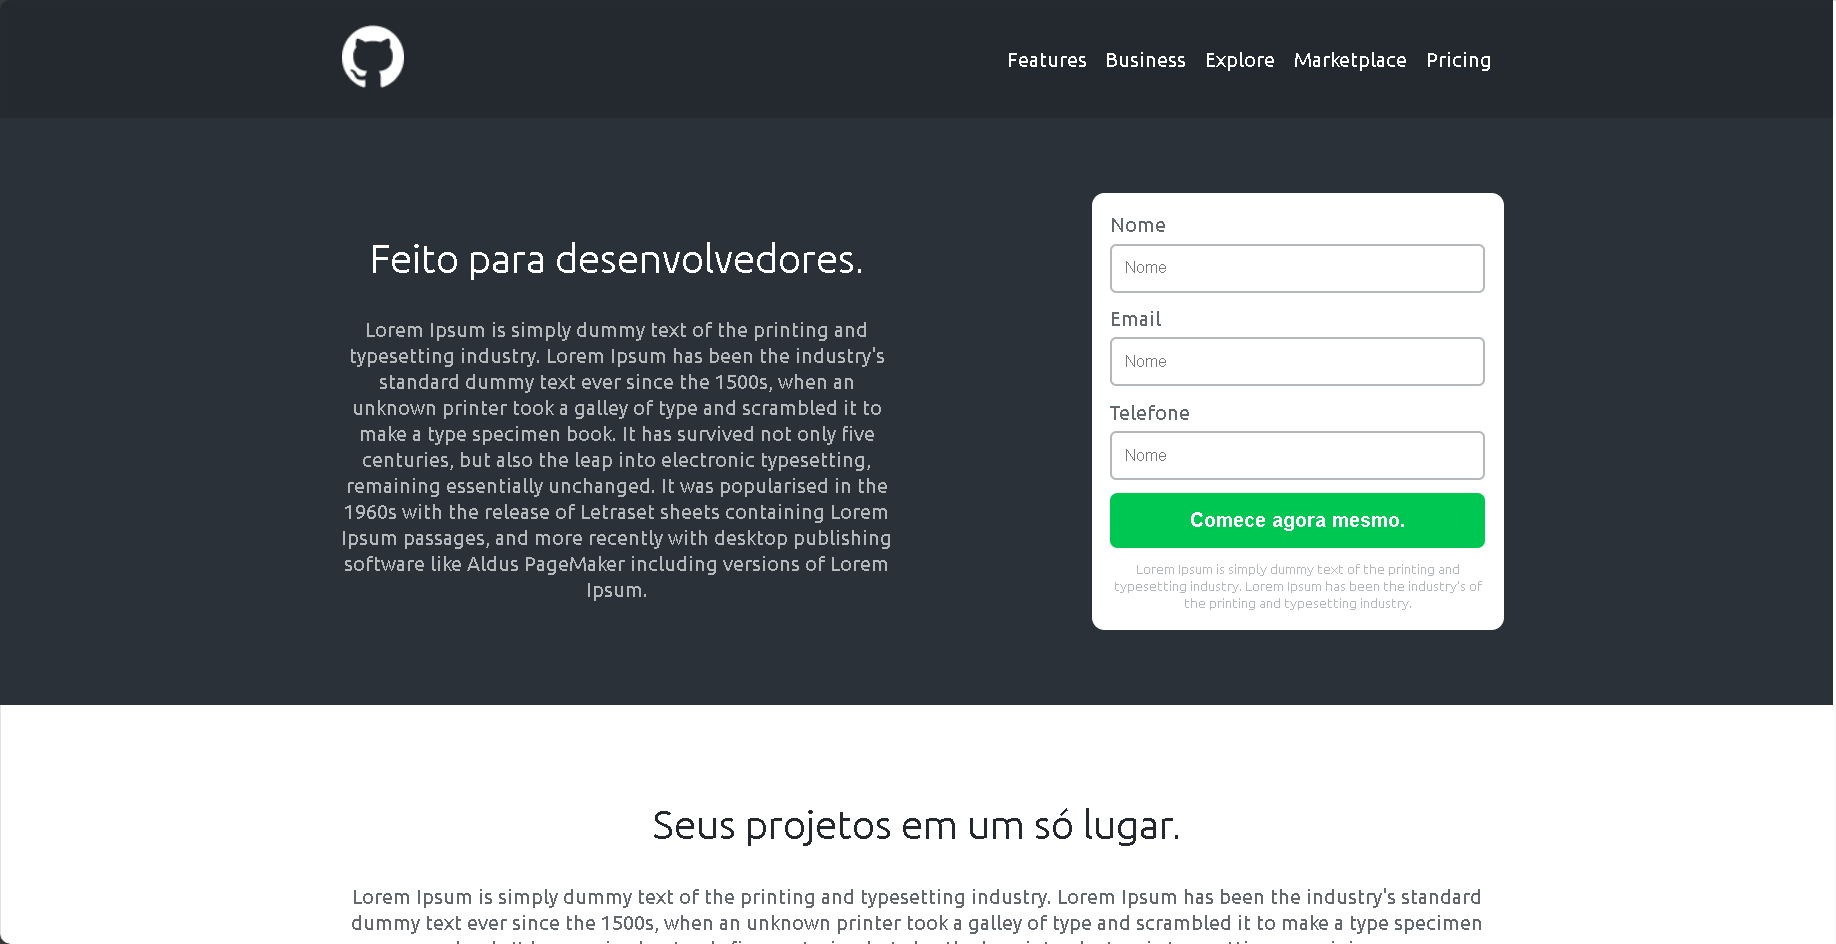
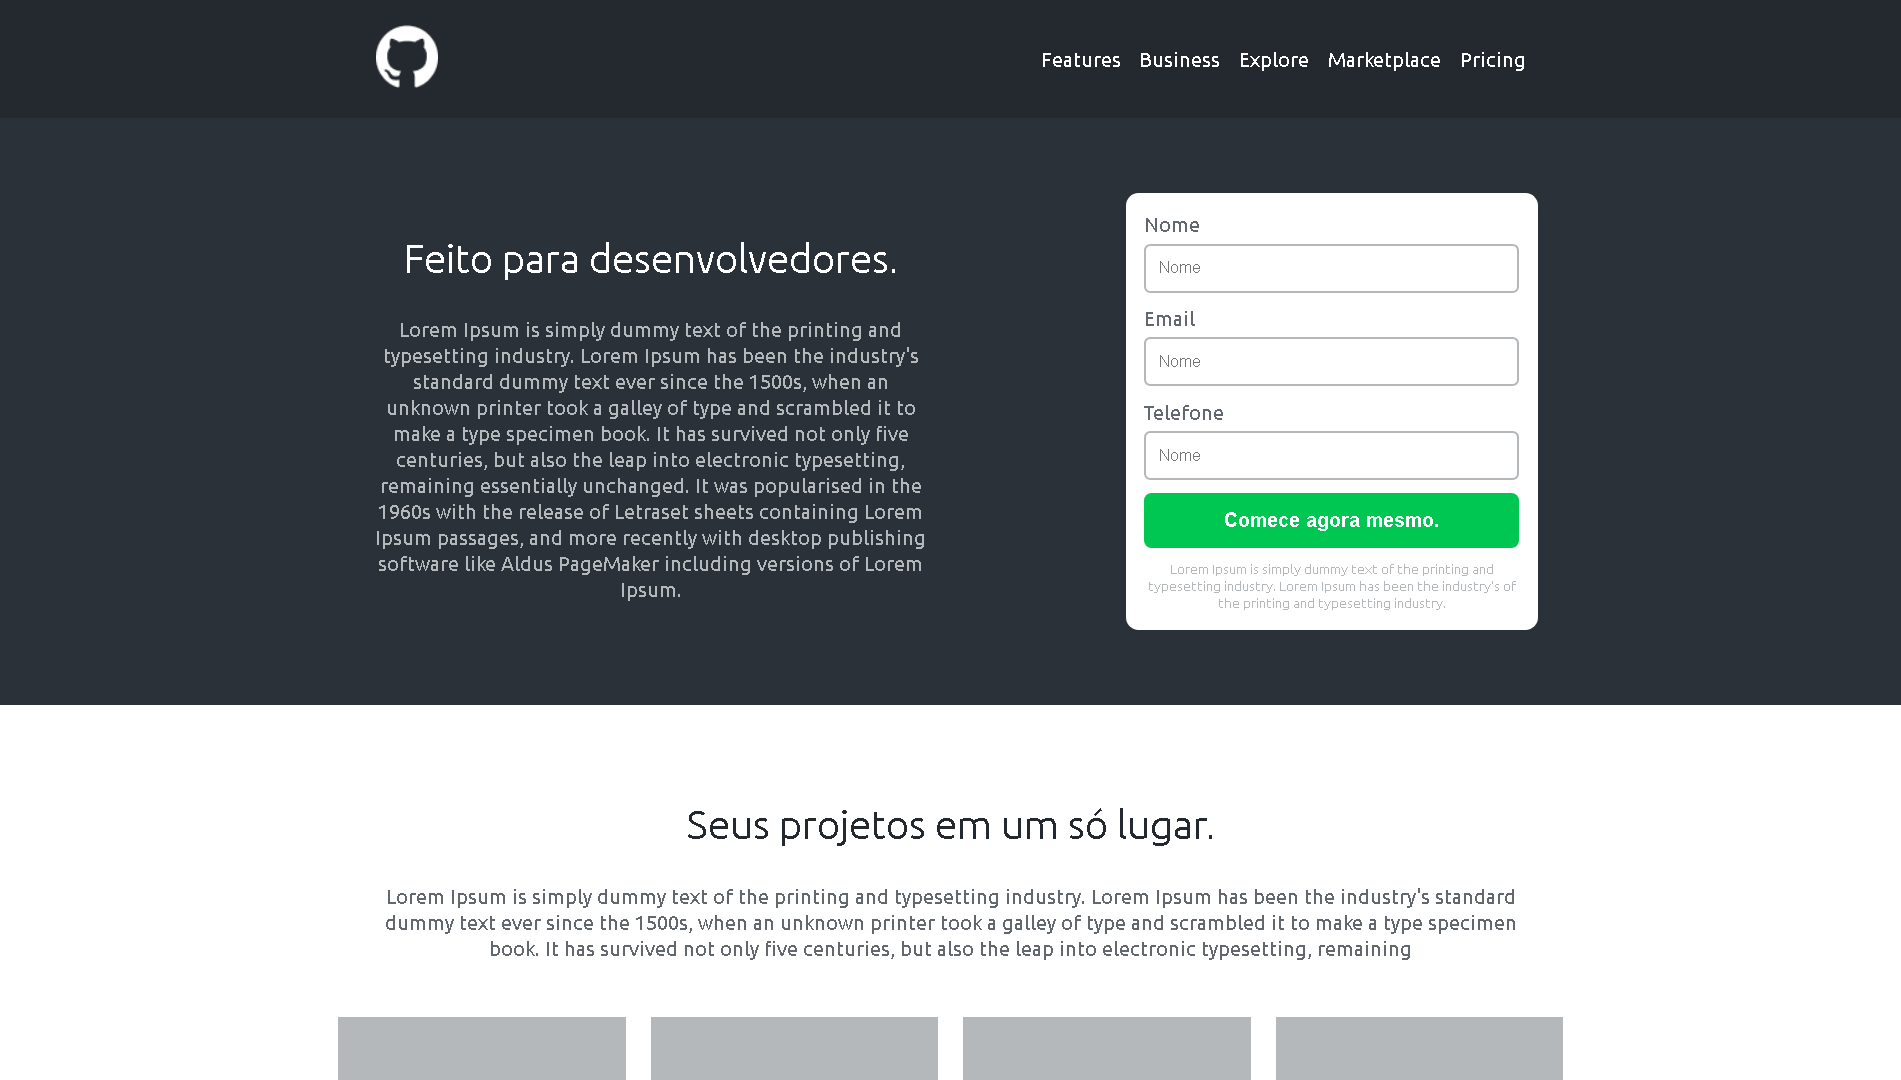
definindo o layout das telas

diff --git a/src/components/Home/portifolio.tsx b/src/components/Home/portifolio.tsx
@@ -13,23 +13,59 @@ export const Projects = ({ projects }: ProjectsProps) => {
       <Head>
         <title>Portifolio | samsdev</title>
       </Head>
-      <article className="space-y-16 flex flex-col items-center text-center">
+      <article className="space-y-16 flex flex-col justify-center items-center text-center">
         <h2 className="text-2xl md:text-4xl font-semibold">PROJETOS</h2>
         <ul className="flex flex-wrap gap-4">
           {projects.map(({ slug, name, image }, index) => (
             <Link href={`/projects/${slug}`} key={name + index}>
-              <li className="project inline-block relative flex flex-col gap-2">
-                  <div className="visualizar border-4 rounded p-2 md:text-4xl font-bold text-white absolute bottom-[80px]  md:bottom-[140px] right-[80px] md:right-[150px] z-10 ">VISUALIZAR</div>
-
+              <div className="relative flex flex-col gap-2">
+                <span className="text-xl font-medium">{name}</span>
                 <Image
-                  src={image.url}
-                  alt={image.alt}
-                  width={550}
-                  height={550}
-                  className="object-cover border rounded-md" />
-                <span>{name}</span>
-              </li>
+                  src="/responsive (2).png"
+                  alt=""
+                  width={596}
+                  height={580} />
+
+                <div className="desktop rounded absolute bg-black md:bottom-[51px] md:right-[78px] z-10">
+                  <li className="project inline-block relative flex flex-col gap-2">
+                    <div className="visualizar border-4 rounded p-2 md:text-2xl font-bold text-white absolute bottom-[80px]  md:bottom-[20px] right-[80px] md:right-[140px] z-10 ">VISUALIZAR</div>
+
+                    <Image
+                      src={image.url}
+                      alt={image.alt}
+                      width={450}
+                      height={450}
+                      className="object-cover border border-gray-800 rounded-md" />
+
+                  </li>
+                </div>
+
+                <div className="mobile bg-white absolute rounded-2xl md:bottom-[-1px] md:right-[0px] z-30">
+                  <Image
+                    src="/cel.png"
+                    alt=""
+                    width={136}
+                    height={273.25}
+                    className="mobile rounded-2xl md:bottom-[0px] md:right-[0px] z-30" />
+                  <div className="relative z-10">
+                    <Image
+                      src="/v-mobile.png"
+                      alt=""
+                      width={125}
+                      height={220}
+                      className="border border-gray-800 rounded-xl absolute md:bottom-[8px] md:right-[4px] z-10" />
+                  </div>
+                </div>
+              </div>
+              <ul className="flex justify-center items-center gap-4" >
+                <li><Image src="/assets/linkedin.svg" alt="" width={40} height={40}/></li>
+                <li><Image src="/assets/linkedin.svg" alt="" width={40} height={40}/></li>
+                <li><Image src="/assets/linkedin.svg" alt="" width={40} height={40}/></li>
+                <li><Image src="/assets/linkedin.svg" alt="" width={40} height={40}/></li>
+                <li><Image src="/assets/linkedin.svg" alt="" width={40} height={40}/></li>
+              </ul>
             </Link>
+            
           ))}
         </ul>
       </article>

diff --git a/src/components/commons/Navbar/index.tsx b/src/components/commons/Navbar/index.tsx
@@ -20,7 +20,7 @@ export const Header = () => {
   }, []);
   
   return (
-    <header className={`${roboto.className} bg-black text-sm flex py-2 px-2 justify-between text-white font-normal items-center sticky top-0 z-20`}>
+    <header className={`${roboto.className} bg-black text-sm flex py-2 px-2 justify-between text-white font-normal items-center sticky top-0 z-30`}>
       <Link href='/'>
         <Image src="/Sd.png" width={50} height={50} alt="icone da samsdev" />
       </Link>

diff --git a/src/styles/globals.css b/src/styles/globals.css
@@ -20,3 +20,13 @@ html, body {
   opacity: 1;
   transition: visibility 0.2s, opacity 0.2s;
 }
+
+.desktop {
+  width: 451px;
+  height: 257px;
+}
+
+.mobile {
+  width: 136px;
+  height: 238px;
+}
